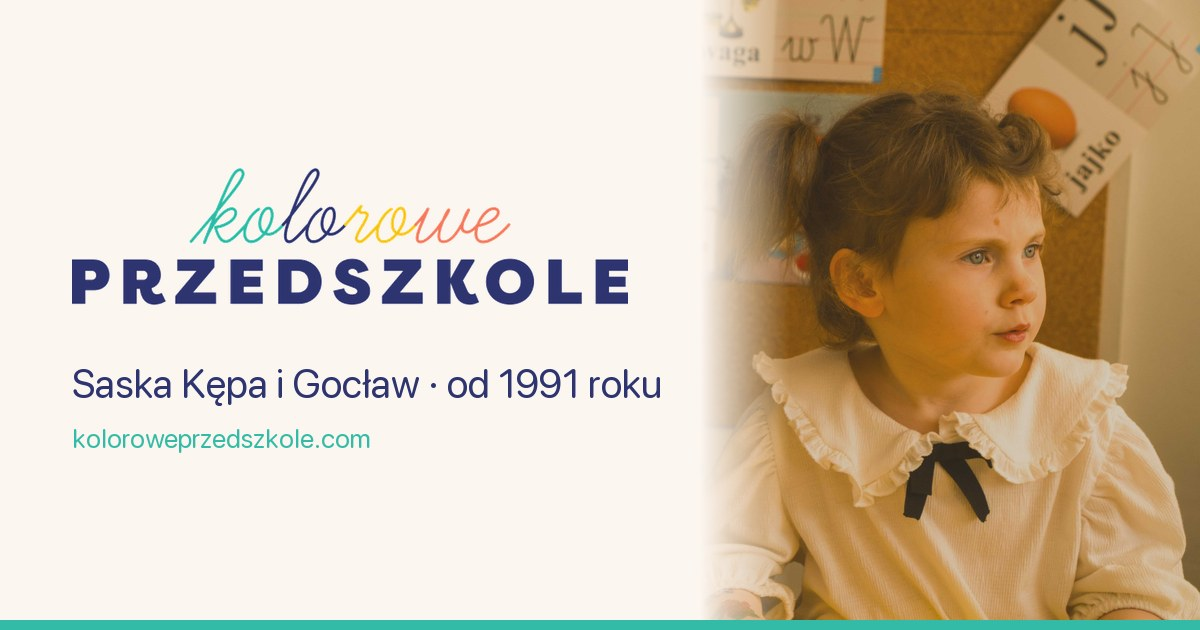
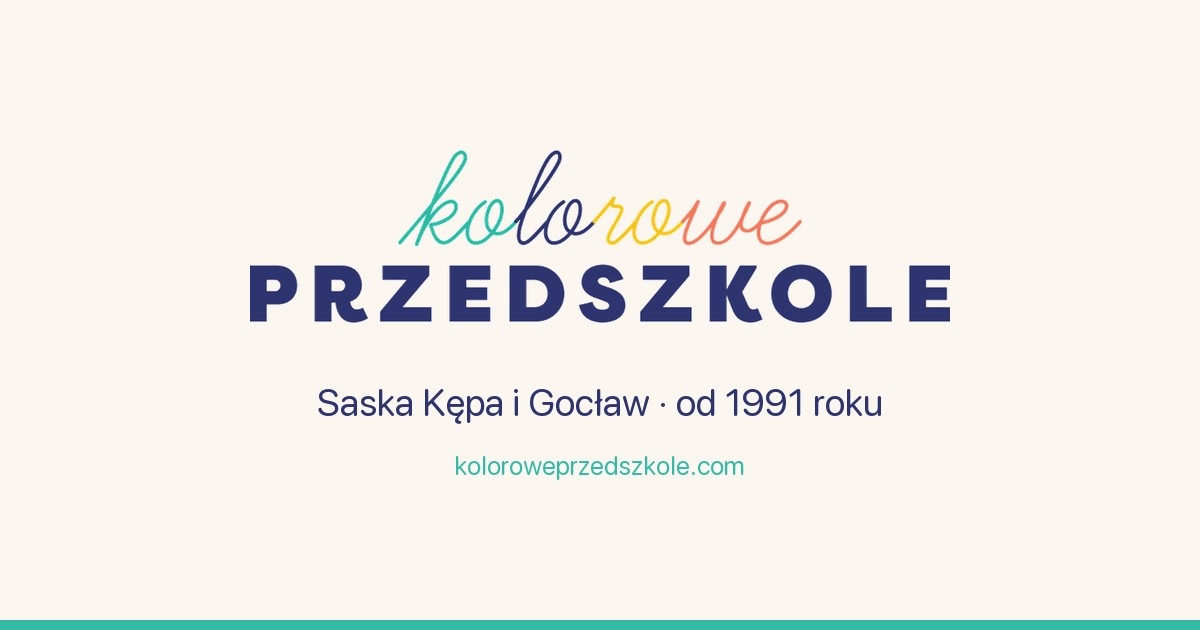
fix(og): drop the photo from the link-preview card, wordmark only

diff --git a/scripts/make-og-image.py b/scripts/make-og-image.py
@@ -3,8 +3,8 @@
 
 Rendered once and committed — link previews in WhatsApp, iMessage, Messenger
 and LinkedIn read a static file, so there is no reason to generate it at
-build time. Kept in the repo so the card can be rebuilt when the logo or the
-lead photo changes.
+build time. Kept in the repo so the card can be rebuilt when the logo
+changes.
 
 Constraints that drive the design:
   * 1200x630 — the size every scraper expects
@@ -16,7 +16,6 @@ from PIL import Image, ImageDraw, ImageFont
 
 ROOT = os.path.dirname(os.path.dirname(os.path.abspath(__file__)))
 
-FOTO = os.path.join(ROOT, 'public/og-image.jpg')
 LOGO = os.path.join(ROOT, 'docs/apps-script/szablon/logo.png')
 WYNIK = os.path.join(ROOT, 'public/og-default.jpg')
 FONT = '/System/Library/Fonts/SFNSRounded.ttf'  # kształtem najbliższy Nunito
@@ -26,51 +25,40 @@ KREM = (252, 246, 240)
 GRANAT = (45, 52, 111)
 TURKUS = (52, 187, 168)
 
-PANEL = 700          # szerokość kremowego panelu z logo
-MARGINES = 72
-
 karta = Image.new('RGB', (SZER, WYS), KREM)
-
-# ── Zdjęcie po prawej ────────────────────────────────────────────────────
-foto = Image.open(FOTO).convert('RGB')
-doc_szer, doc_wys = SZER - PANEL, WYS
-skala = max(doc_szer / foto.width, doc_wys / foto.height)
-foto = foto.resize((round(foto.width * skala), round(foto.height * skala)), Image.LANCZOS)
-
-# Kadrujemy do prawej krawędzi — twarze dzieci siedzą w prawej części ujęcia.
-lewo = foto.width - doc_szer
-gora = max(0, (foto.height - doc_wys) // 2)
-foto = foto.crop((lewo, gora, lewo + doc_szer, gora + doc_wys))
-karta.paste(foto, (PANEL, 0))
-
-# Miękkie przejście panel → zdjęcie, żeby styk nie był twardą pionową linią.
-rozmycie = 90
-maska = Image.linear_gradient('L').rotate(270, expand=True).resize((rozmycie, WYS))
-karta.paste(Image.new('RGB', (rozmycie, WYS), KREM), (PANEL, 0), maska)
+rys = ImageDraw.Draw(karta)
 
 # ── Logo ─────────────────────────────────────────────────────────────────
 logo = Image.open(LOGO).convert('RGB')
 # Logo przyszło z białym tłem — wycinamy je, żeby nie zrobiło białej płyty
-# na kremowym panelu.
-alpha = logo.convert('L').point(lambda p: 0 if p > 244 else 255)
-logo.putalpha(alpha)
+# na kremowym tle.
+logo.putalpha(logo.convert('L').point(lambda p: 0 if p > 244 else 255))
 
-logo_szer = PANEL - 2 * MARGINES
+logo_szer = 700
 logo = logo.resize((logo_szer, round(logo.height * logo_szer / logo.width)), Image.LANCZOS)
-logo_y = 168
-karta.paste(logo, (MARGINES, logo_y), logo)
+
+# Blok logo + podpisy wyśrodkowany optycznie: liczymy jego łączną wysokość
+# i dopiero wtedy ustawiamy górną krawędź.
+f_duzy = ImageFont.truetype(FONT, 38)
+f_maly = ImageFont.truetype(FONT, 26)
+ODSTEP_1, ODSTEP_2 = 56, 26
+
+h_duzy = rys.textbbox((0, 0), 'Ag', font=f_duzy)[3]
+h_maly = rys.textbbox((0, 0), 'Ag', font=f_maly)[3]
+blok = logo.height + ODSTEP_1 + h_duzy + ODSTEP_2 + h_maly
+gora = (WYS - blok) // 2
+
+karta.paste(logo, ((SZER - logo_szer) // 2, gora), logo)
 
 # ── Napisy ───────────────────────────────────────────────────────────────
-rys = ImageDraw.Draw(karta)
-f_duzy = ImageFont.truetype(FONT, 40)
-f_maly = ImageFont.truetype(FONT, 27)
-
-y = logo_y + logo.height + 54
-rys.text((MARGINES, y), 'Saska Kępa i Gocław · od 1991 roku', font=f_duzy, fill=GRANAT)
-rys.text((MARGINES, y + 62), 'koloroweprzedszkole.com', font=f_maly, fill=TURKUS)
+y = gora + logo.height + ODSTEP_1
+rys.text((SZER // 2, y), 'Saska Kępa i Gocław · od 1991 roku',
+         font=f_duzy, fill=GRANAT, anchor='ma')
+rys.text((SZER // 2, y + h_duzy + ODSTEP_2), 'koloroweprzedszkole.com',
+         font=f_maly, fill=TURKUS, anchor='ma')
 
 # Turkusowy pasek u dołu — sygnał marki widoczny nawet w miniaturze.
 rys.rectangle([0, WYS - 10, SZER, WYS], fill=TURKUS)
 
-karta.save(WYNIK, 'JPEG', quality=88, optimize=True, progressive=True)
+karta.save(WYNIK, 'JPEG', quality=90, optimize=True, progressive=True)
 print('→ %s (%d KB)' % (WYNIK, os.path.getsize(WYNIK) // 1024))
